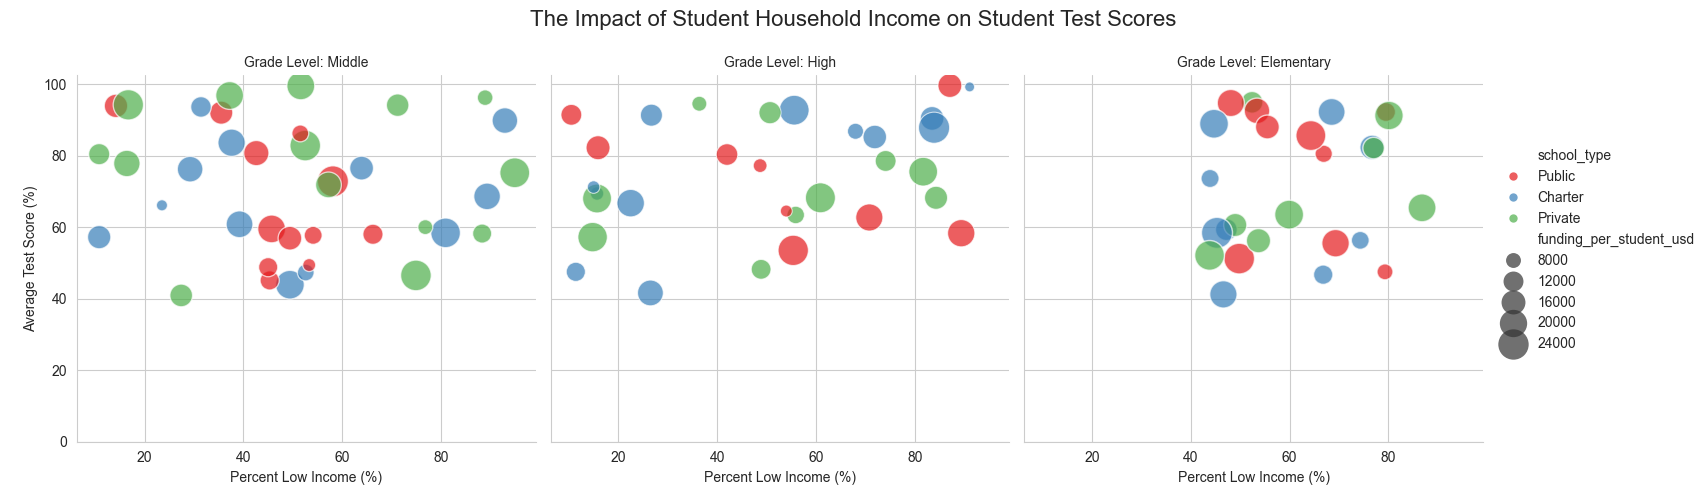
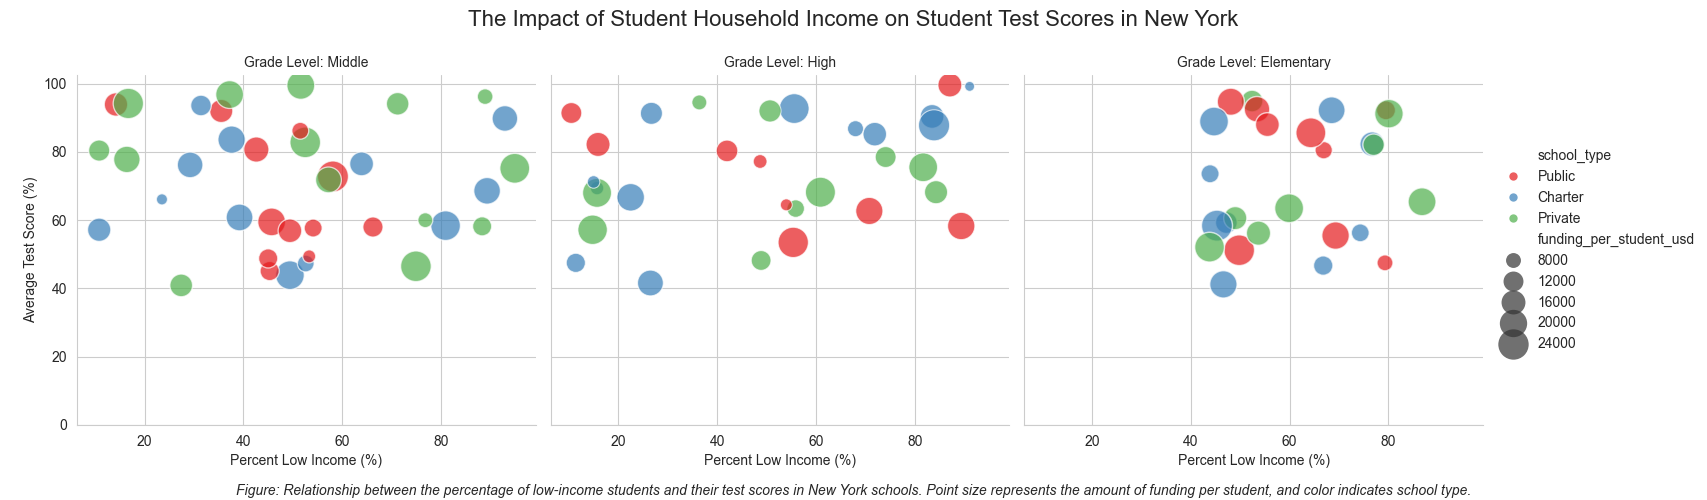
added caption

diff --git a/nishma_shakya/project_2/project2.py b/nishma_shakya/project_2/project2.py
@@ -24,10 +24,15 @@ g = sns.relplot(data=df, x="percent_low_income", y="avg_test_score_percent", kin
 # labels/titles
 g.set_titles("Grade Level: {col_name}")
 g.set_axis_labels("Percent Low Income (%)", "Average Test Score (%)")
-g.fig.suptitle("The Impact of Student Household Income on Student Test Scores", fontsize=16)
+g.fig.suptitle("The Impact of Student Household Income on Student Test Scores in New York", fontsize=16)
+# brief caption to explain 
+g.fig.text(0.5, 0.01, 
+           "Figure: Relationship between the percentage of low-income students and their test scores in New York schools. "
+           "Point size represents the amount of funding per student, and color indicates school type.", 
+           ha='center', fontsize=10,fontstyle='italic')
 # adjusting (bc y-axis starts at 40... want it to start at 0%)
 g.set(ylim=(0, None))
-g.fig.subplots_adjust(top=0.85)
+g.fig.subplots_adjust(top=0.85, bottom=0.15)
 plt.savefig("projct2.png")
 plt.show()
 plt.clf()
